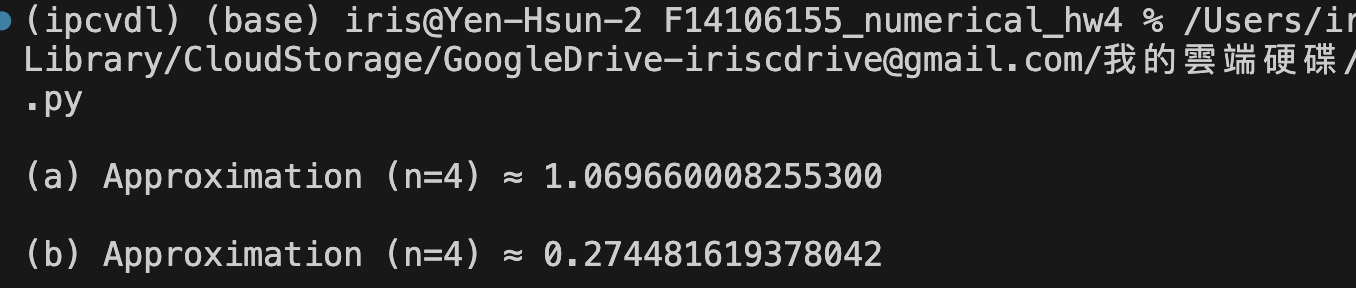
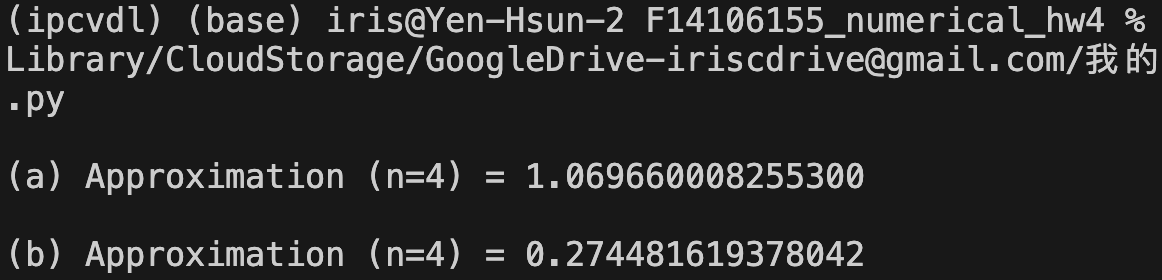
更新simpson

diff --git a/simpson.py b/simpson.py
@@ -26,7 +26,7 @@ Ia = composite_simpson(fa, 1, 15, n)
 Ib = composite_simpson(fb, b_trunc_lower, 1, n)
 
 print()
-print(f"(a) Approximation (n=4) ≈ {Ia:.15f}")
+print(f"(a) Approximation (n=4) = {Ia:.15f}")
 print()
-print(f"(b) Approximation (n=4) ≈ {Ib:.15f}")
+print(f"(b) Approximation (n=4) = {Ib:.15f}")
 print()
